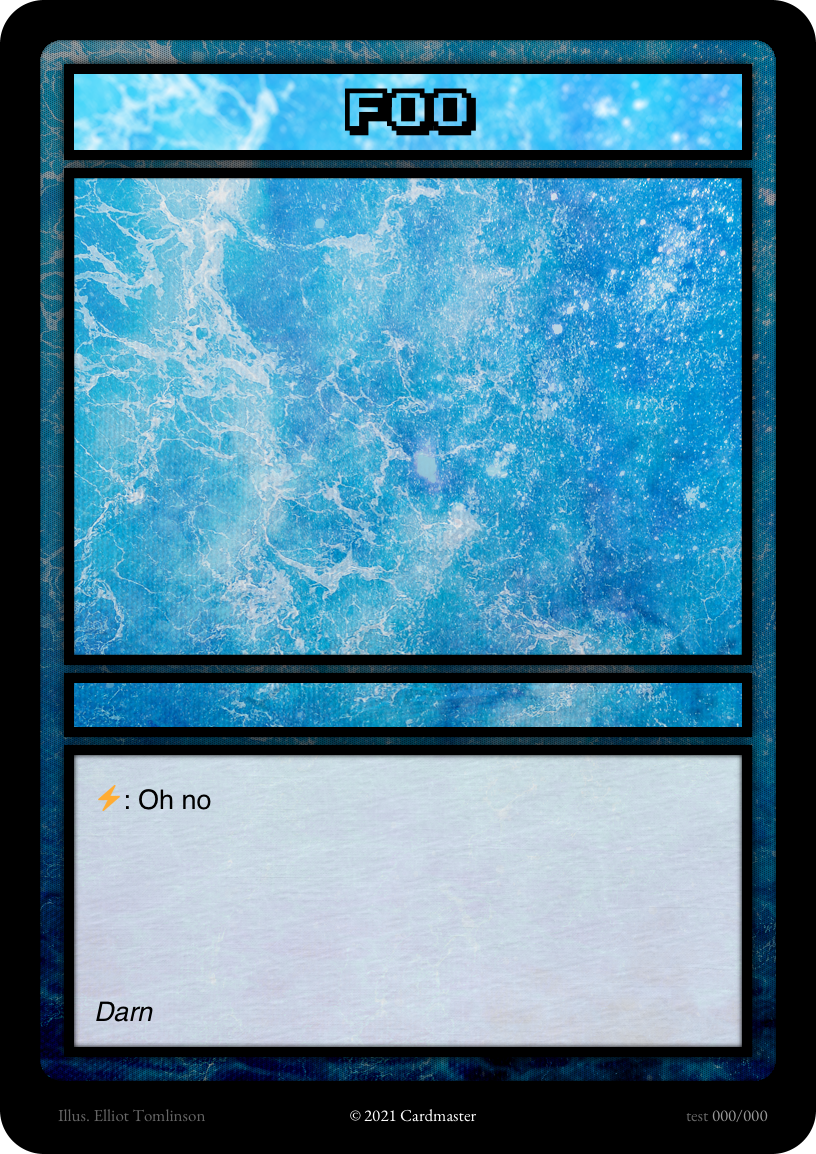
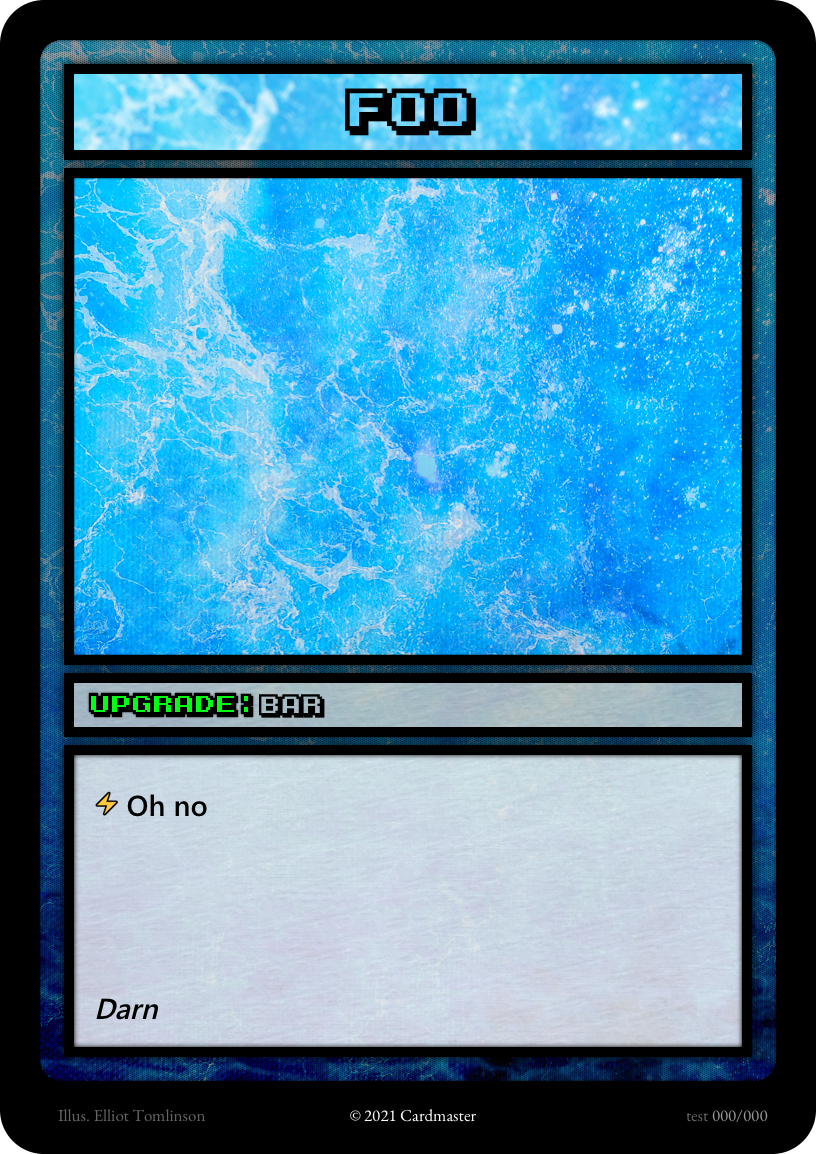
Update template to use custom glyphs

diff --git a/generated_stylesheet.css b/generated_stylesheet.css
@@ -23,7 +23,7 @@
 }
 
 .tier {
-  background-image: url("/Users/duncanuszkay/src/github.com/Shopify/rpcg/lib/cardmaster/commands/../../../res/art/tier/green.png");
+  background-image: url("/Users/duncanuszkay/src/github.com/Shopify/cardmaster/lib/cardmaster/commands/../../../res/art/tier/blue.png");
   width: 736px;
   height: 1041px;
   z-index: 0;
@@ -35,7 +35,7 @@
 }
 
 .border {
-  background-image: url("/Users/duncanuszkay/src/github.com/Shopify/rpcg/lib/cardmaster/commands/../../../res/art/border/border.png");
+  background-image: url("/Users/duncanuszkay/src/github.com/Shopify/cardmaster/lib/cardmaster/commands/../../../res/art/border/border.png");
   z-index: 1;
   position: absolute;
   left: 0px;
@@ -45,7 +45,7 @@
 }
 
 .frame {
-  background-image: url("/Users/duncanuszkay/src/github.com/Shopify/rpcg/lib/cardmaster/commands/../../../res/art/frame/green.png");
+  background-image: url("/Users/duncanuszkay/src/github.com/Shopify/cardmaster/lib/cardmaster/commands/../../../res/art/frame/blue.png");
   z-index: 2;
   position: absolute;
   left: 40px;
@@ -55,7 +55,7 @@
 }
 
 .title {
-  background-image: url("/Users/duncanuszkay/src/github.com/Shopify/rpcg/lib/cardmaster/commands/../../../res/art/title/green.png");
+  background-image: url("/Users/duncanuszkay/src/github.com/Shopify/cardmaster/lib/cardmaster/commands/../../../res/art/title/blue.png");
   z-index: 2;
   position: absolute;
   left: 74px;
@@ -79,7 +79,7 @@
 }
 
 .illustration {
-  background-image: url("/Users/duncanuszkay/src/github.com/Shopify/rpcg/lib/cardmaster/commands/../../../res/../res/art/illustration/Disappear.png");
+  background-image: url("/Users/duncanuszkay/src/github.com/Shopify/cardmaster/lib/cardmaster/commands/../../../res/../res/art/illustration/Inner Sun.png");
   z-index: 1;
   position: absolute;
   left: 74px;
@@ -91,7 +91,7 @@
 .type {
   font-family: 'Karmatic Arcade';
   font-size: 18pt;
-  background-image: url("/Users/duncanuszkay/src/github.com/Shopify/rpcg/lib/cardmaster/commands/../../../res/art/type/green.png");
+  background-image: url("/Users/duncanuszkay/src/github.com/Shopify/cardmaster/lib/cardmaster/commands/../../../res/art/type/blue.png");
   z-index: 1;
   position: absolute;
   left: 74px;
@@ -108,9 +108,9 @@
 }
 
 .rules {
-  font-family: 'Segoe UI Semibold';
+  font-family: 'Segoe UI';
   font-size: 22pt;
-  background-image: url("/Users/duncanuszkay/src/github.com/Shopify/rpcg/lib/cardmaster/commands/../../../res/art/rules/green.png");
+  background-image: url("/Users/duncanuszkay/src/github.com/Shopify/cardmaster/lib/cardmaster/commands/../../../res/art/rules/blue.png");
   position: absolute;
   left: 74px;
   top: 755px;
@@ -132,6 +132,21 @@
 
 .passive {
   margin-bottom: 10px;
+}
+
+.glyph {
+  width: 25px;
+  height: 25px;
+  display: inline-block;
+  background-size: contain;
+}
+
+.cast {
+  background-image: url("/Users/duncanuszkay/src/github.com/Shopify/cardmaster/lib/cardmaster/commands/../../../res/art/glyph/cast.png")
+}
+
+.hand {
+  background-image: url("/Users/duncanuszkay/src/github.com/Shopify/cardmaster/lib/cardmaster/commands/../../../res/art/glyph/hand.png")
 }
 
 .flavour {

diff --git a/res/card/template/passive.html b/res/card/template/passive.html
@@ -17,9 +17,14 @@
 </style>
 
 <!-- https://stackoverflow.com/questions/687998/auto-size-dynamic-text-to-fill-fixed-size-container -->
+<script src="https://twemoji.maxcdn.com/2/twemoji.min.js?11.2"></script>
 <script type="text/javascript">
   window.onload=function shrink()
   {
+    const rules_text = document.getElementByClassName('active')[0] 
+    rules_text.innerHTML = ":^)"
+
+    twemoji.parse(document.body);
     textSpan = document.getElementById("title-text")
     textDiv = document.getElementById("title")
     
@@ -52,6 +57,9 @@
         <div class="rules-text">
           <div class="active">
             <div class="cast glyph"></div> {{active_rules}}
+          </div>
+          <div class="passive">
+            <div class="hand glyph"></div> {{passive_rules}}
           </div>
           <em class="flavour">
             {{flavour}}

diff --git a/res/card/template/css/card.css b/res/card/template/css/card.css
@@ -108,7 +108,7 @@
 }
 
 .rules {
-  font-family: 'Segoe UI Semibold';
+  font-family: 'Segoe UI';
   font-size: 22pt;
   background-image: url("{{rules_image_path}}");
   position: absolute;
@@ -132,6 +132,21 @@
 
 .passive {
   margin-bottom: 10px;
+}
+
+.glyph {
+  width: 25px;
+  height: 25px;
+  display: inline-block;
+  background-size: contain;
+}
+
+.cast {
+  background-image: url("{{cast_glyph_image_path}}")
+}
+
+.hand {
+  background-image: url("{{hand_glyph_image_path}}")
 }
 
 .flavour {

diff --git a/lib/card/generators/imgkit_basic.rb b/lib/card/generators/imgkit_basic.rb
@@ -24,7 +24,7 @@ module Card
 
         File.write("generated_stylesheet.css", css)
 
-        kit = IMGKit.new(html, "crop-w" => 816, "crop-h" => 1154, transparent: true)
+        kit = IMGKit.new(html, "crop-w" => 816, "crop-h" => 1154, transparent: true, debug_javascript: true)
         kit.stylesheets = ["./generated_stylesheet.css"]
         kit.javascripts = @scripts 
 
@@ -41,7 +41,9 @@ module Card
           title_image_path: File.join(@resource_path, "/art/title/#{card_specification.tier.to_s}.png"),
           illustration_image_path: File.join(@resource_path, "..", card_specification.art_path),
           type_image_path: File.join(@resource_path, "/art/type/#{card_specification.tier.to_s}.png"),
-          rules_image_path: File.join(@resource_path, "/art/rules/#{card_specification.tier.to_s}.png")
+          rules_image_path: File.join(@resource_path, "/art/rules/#{card_specification.tier.to_s}.png"),
+          hand_glyph_image_path: File.join(@resource_path, "/art/glyph/hand.png"),
+          cast_glyph_image_path: File.join(@resource_path, "/art/glyph/cast.png")
         )
       end
 
@@ -65,12 +67,16 @@ module Card
       def generate_rules_content(rules)
         case rules
         when Card::Models::SimpleRules
-          ["⚡: #{rules.text}", nil]
+          ["#{rules.text}", nil]
         when Card::Models::PassiveActiveRules
-          ["⚡: #{rules.active}", "✋: #{rules.passive}"]
+          ["#{rules.active}", "#{rules.passive}"]
         else
           raise "Unsupported rule type #{rules.class}"
         end
+      end
+
+      def glyph(name)
+        "<div class=\"#{name}-glyph\"></div>"
       end
 
       class CardTemplate < Mustache
@@ -78,7 +84,7 @@ module Card
       end
 
       class CardStyleTemplate < Mustache
-        attr_accessor :tier_image_path, :border_image_path, :frame_image_path, :title_image_path, :illustration_image_path, :type_image_path, :rules_image_path
+        attr_accessor :tier_image_path, :border_image_path, :frame_image_path, :title_image_path, :illustration_image_path, :type_image_path, :rules_image_path, :hand_glyph_image_path, :cast_glyph_image_path
       end
     end
   end

diff --git a/lib/cardmaster/commands/generate.rb b/lib/cardmaster/commands/generate.rb
@@ -16,6 +16,7 @@ module Cardmaster
         gold: "res/card/back/gold.png"
       }.freeze
       DEFAULT_TEMPLATE = "res/card/template/default.html"
+      PASSIVE_TEMPLATE = "res/card/template/default.html"
       DEFAULT_STYLESHEET = "res/card/template/css/card.css"
       TITLE_SIZER_SCRIPT = "res/card/template/title-size.js"
       RES_PATH = File.join(__dir__, "../../../res")
@@ -164,7 +165,12 @@ module Cardmaster
 
       def generator
         card_templates = ->(card_spec) do
-          DEFAULT_TEMPLATE
+          case card_spec.rules
+          when Card::Models::SimpleRules
+            PASSIVE_TEMPLATE
+          when Card::Models::PassiveActiveRules
+            DEFAULT_TEMPLATE
+          end
         end
         @generator ||= Card::Generators::IMGKitBasic.new(card_templates, DEFAULT_STYLESHEET, [TITLE_SIZER_SCRIPT], RES_PATH)
       end
